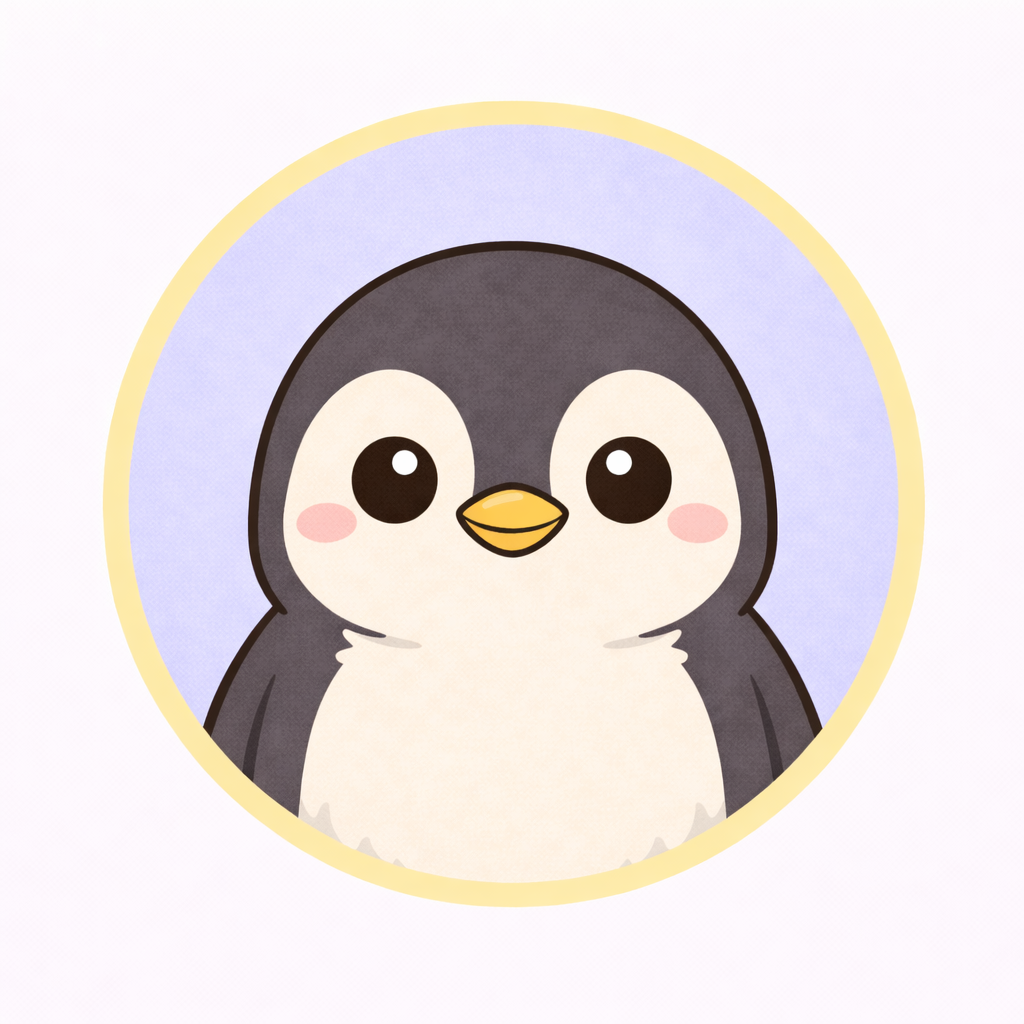
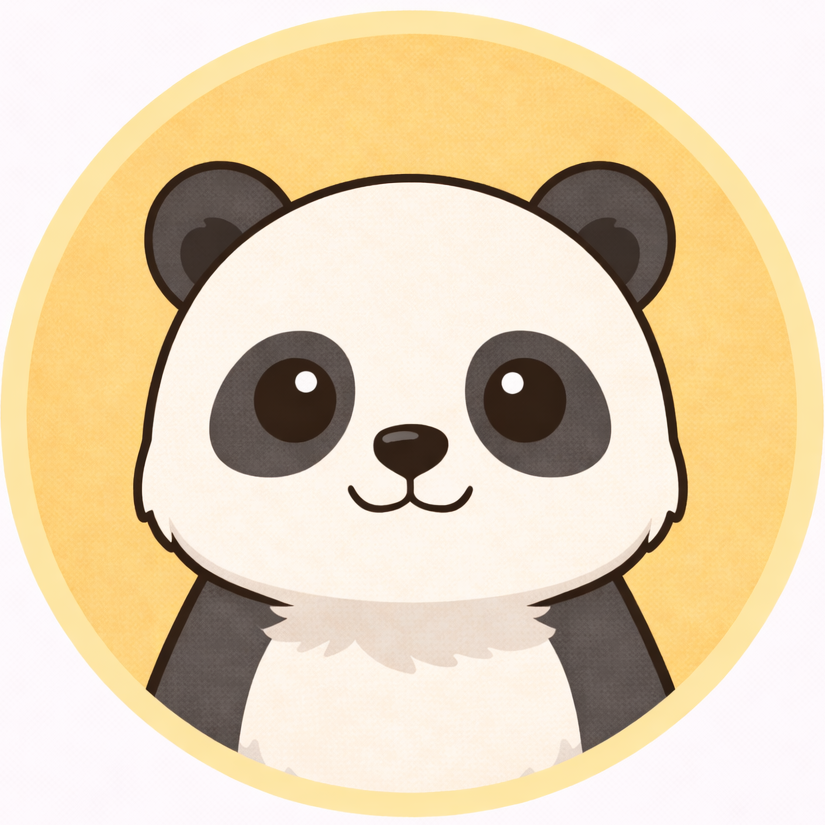
fix new assets

diff --git a/lib/presentation/screens/profile_picture_picker_screen.dart b/lib/presentation/screens/profile_picture_picker_screen.dart
@@ -27,7 +27,7 @@ class _ProfilePicturePickerScreenState
   late int selectedAvatarId;
   bool isSaving = false;
 
-  final List<int> avatars = List.generate(14, (i) => i);
+  final List<int> avatars = List.generate(15, (i) => i);
 
   @override
   void initState() {
